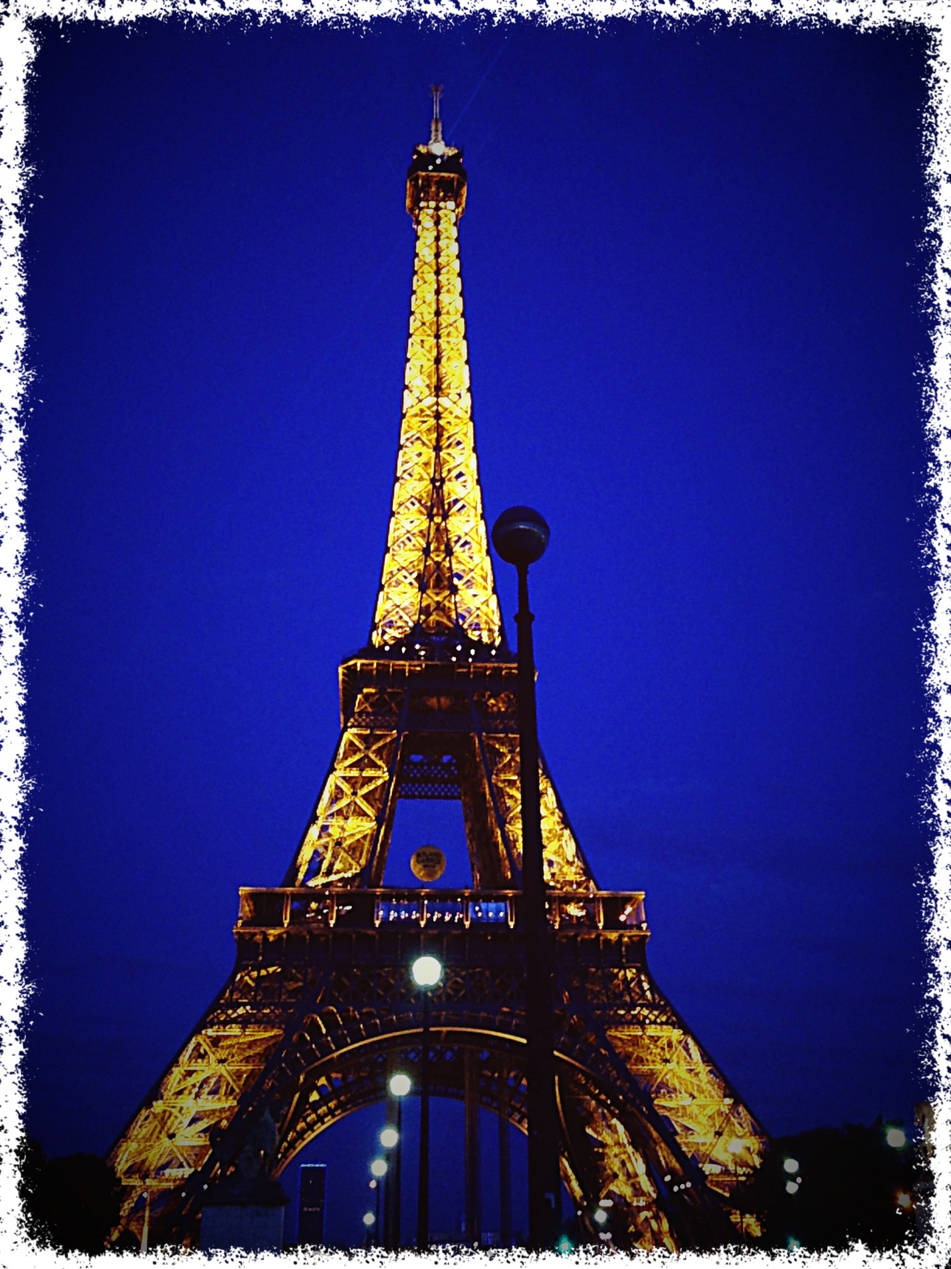
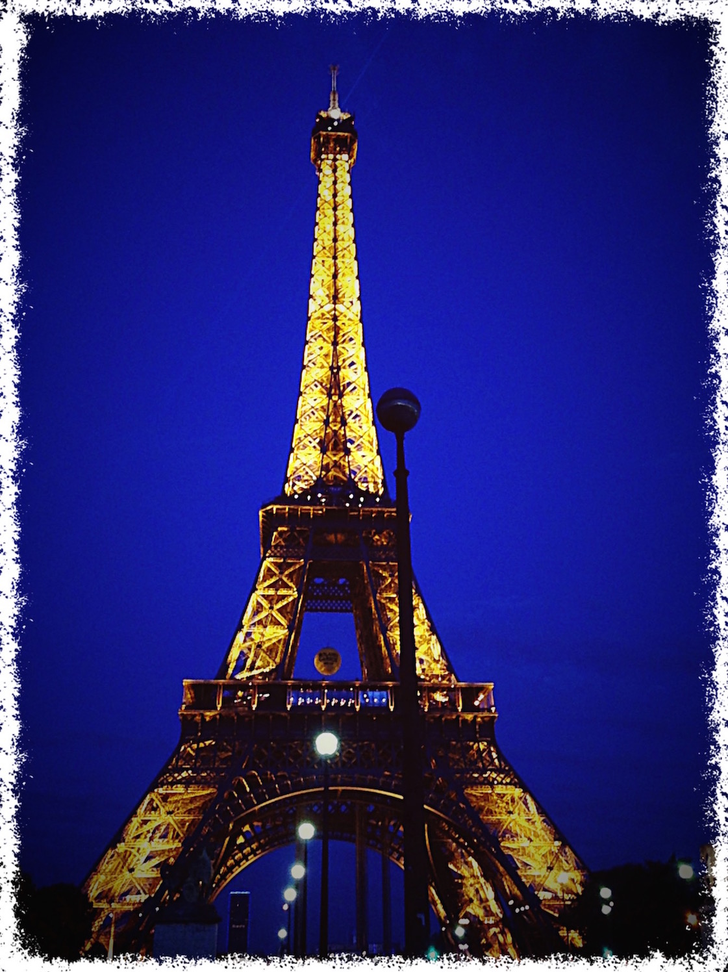
paragraph and image reworking

Changed region(s): [[0.9991, 0.2152, 1.0, 0.246], [0.5932, 0.0, 0.6244, 0.0307]]

diff --git a/index.html b/index.html
@@ -34,7 +34,8 @@
     
     
     <article>
-        <h2> Keeping Up With Karlens</h2>
+        <h2> Keeping Up With Karlens
+        </h2>
        
     
 
@@ -49,7 +50,7 @@
         
         <div class="home">
         <p>
-            Karlens Direny. Telecommunicaitons Major. Class of 2015.
+            Karlens Direny. Telecommunicaitons Major. Class of 2015.The cultural appropriation forum proved to be an interesting topic because of its delicate subject matter and the vast amount of cultures represented throughout the United States. Unlike other countries that have a more homogenous culture, the U.S. does not focus on the importance of culture but rather the profitability of culture. The media has a big role in this because it is through the media we see cultural appropriation and how people from one specific culture can devalue and monetize another’s culture. The U.S. has made this an acceptable fact because of our lack of knowledge and respect for culture in general. An interesting thing brought up in the forum was whether monetary compensation would suffice for culturally appropriating another culture.  
         
         
         

diff --git a/about.html b/about.html
@@ -38,7 +38,8 @@
 <img src="images/about-me-collage2.jpg"  alt="Karlens Direny" title="Karlens Direny Toddler"/>
     </div>
     
-    <p> This is my about me article.</p>
+    <p> This is my about me article.The cultural appropriation forum proved to be an interesting topic because of its delicate subject matter and the vast amount of cultures represented throughout the United States. Unlike other countries that have a more homogenous culture, the U.S. does not focus on the importance of culture but rather the profitability of culture. The media has a big role in this because it is through the media we see cultural appropriation and how people from one specific culture can devalue and monetize another’s culture. The U.S. has made this an acceptable fact because of our lack of knowledge and respect for culture in general. An interesting thing brought up in the forum was whether monetary compensation would suffice for culturally appropriating another culture.  
+        </p>
 
 
     

diff --git a/resume.html b/resume.html
@@ -48,8 +48,9 @@
 
     <h2>Experience and Involvement</h2>
     <h3><strong>Communications Intern</strong></h3> 
-    <h4>European Composer and Songwriter Alliance May 2014- July 2014</h4>
-    <ul>
+    <h4><a href="http://www.composeralliance.org">European Composer and Songwriter Alliance May 2014- July 2014</a>
+  </h4>
+    
         <li>Maintaining and regularly updating ECSA’s website and social media presence.</li>
         <li>Worked on initial research and event planning details on the special events ECSA contributed towards.</li>
         <li>Maintaining, regularly updating and synchronizing ECSA’s electronic and material contact lists.</li>

diff --git a/contact.html b/contact.html
@@ -35,11 +35,11 @@
         
         <h2> Connect with Karlens</h2>
     
- <div class= second>   
+ <div class="second">   
 <img src="images/eiffel-tower2.jpg" alt="Eiffel Tower" title="Eiffel Tower"/>
       </div>
 
-    <div class= half>
+    <div class="half">
 <a href="http://www.facebook.com/karlens.direny"><img src="images/facebook-logo2.jpg" target="_blank"  title="Facebook" alt="Facebook"/></a>
     <p> Add Me on Facebook</p>
   

diff --git a/css/base.css b/css/base.css
@@ -175,9 +175,9 @@ img {width: 90%;
     margin:  10px 0 10px 0;
 }
  
-.full { max-width: 1060px;
-        margin-left: 11%;
+.full { max-width: 260px;
         max-height: 50%;
+    margin: 0 auto;
        
 }
 
@@ -215,7 +215,9 @@ footer p, #resume footer p {
 
 .about p {
         text-align: left;
-        float: right;
+        margin: 5px 65px 5px 0px;
+   
+    
 }
 
 .home p {
